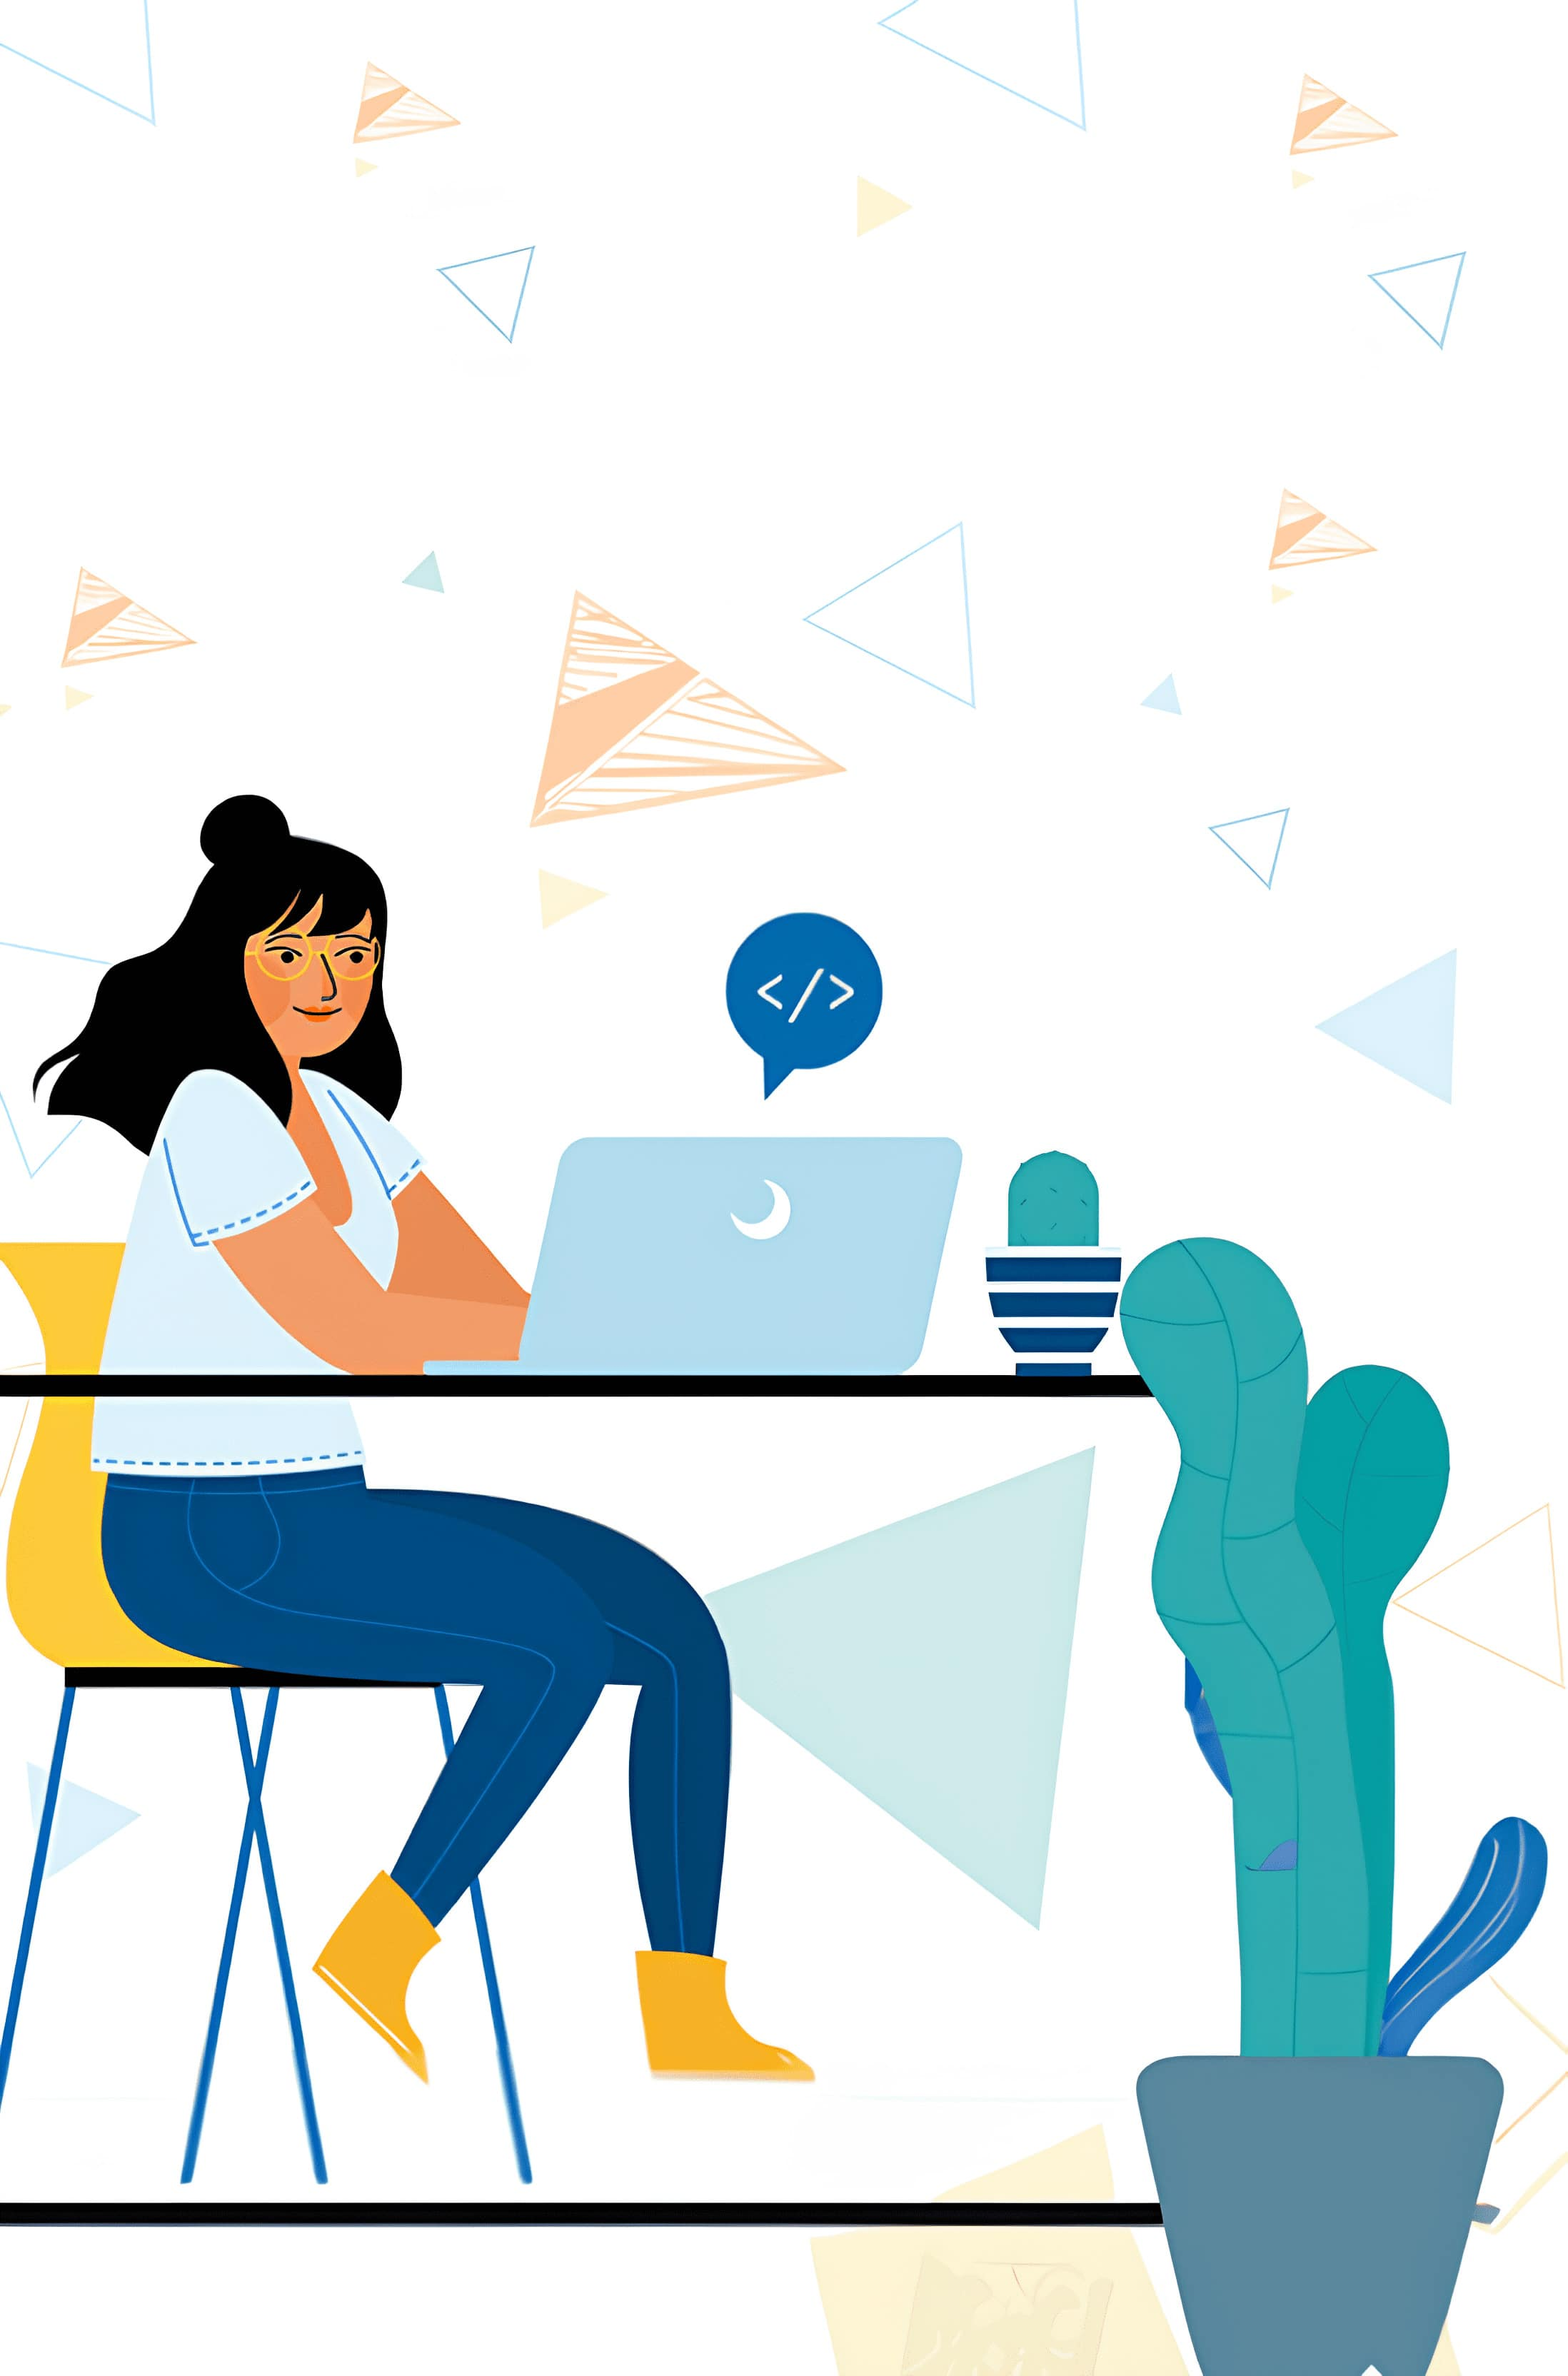
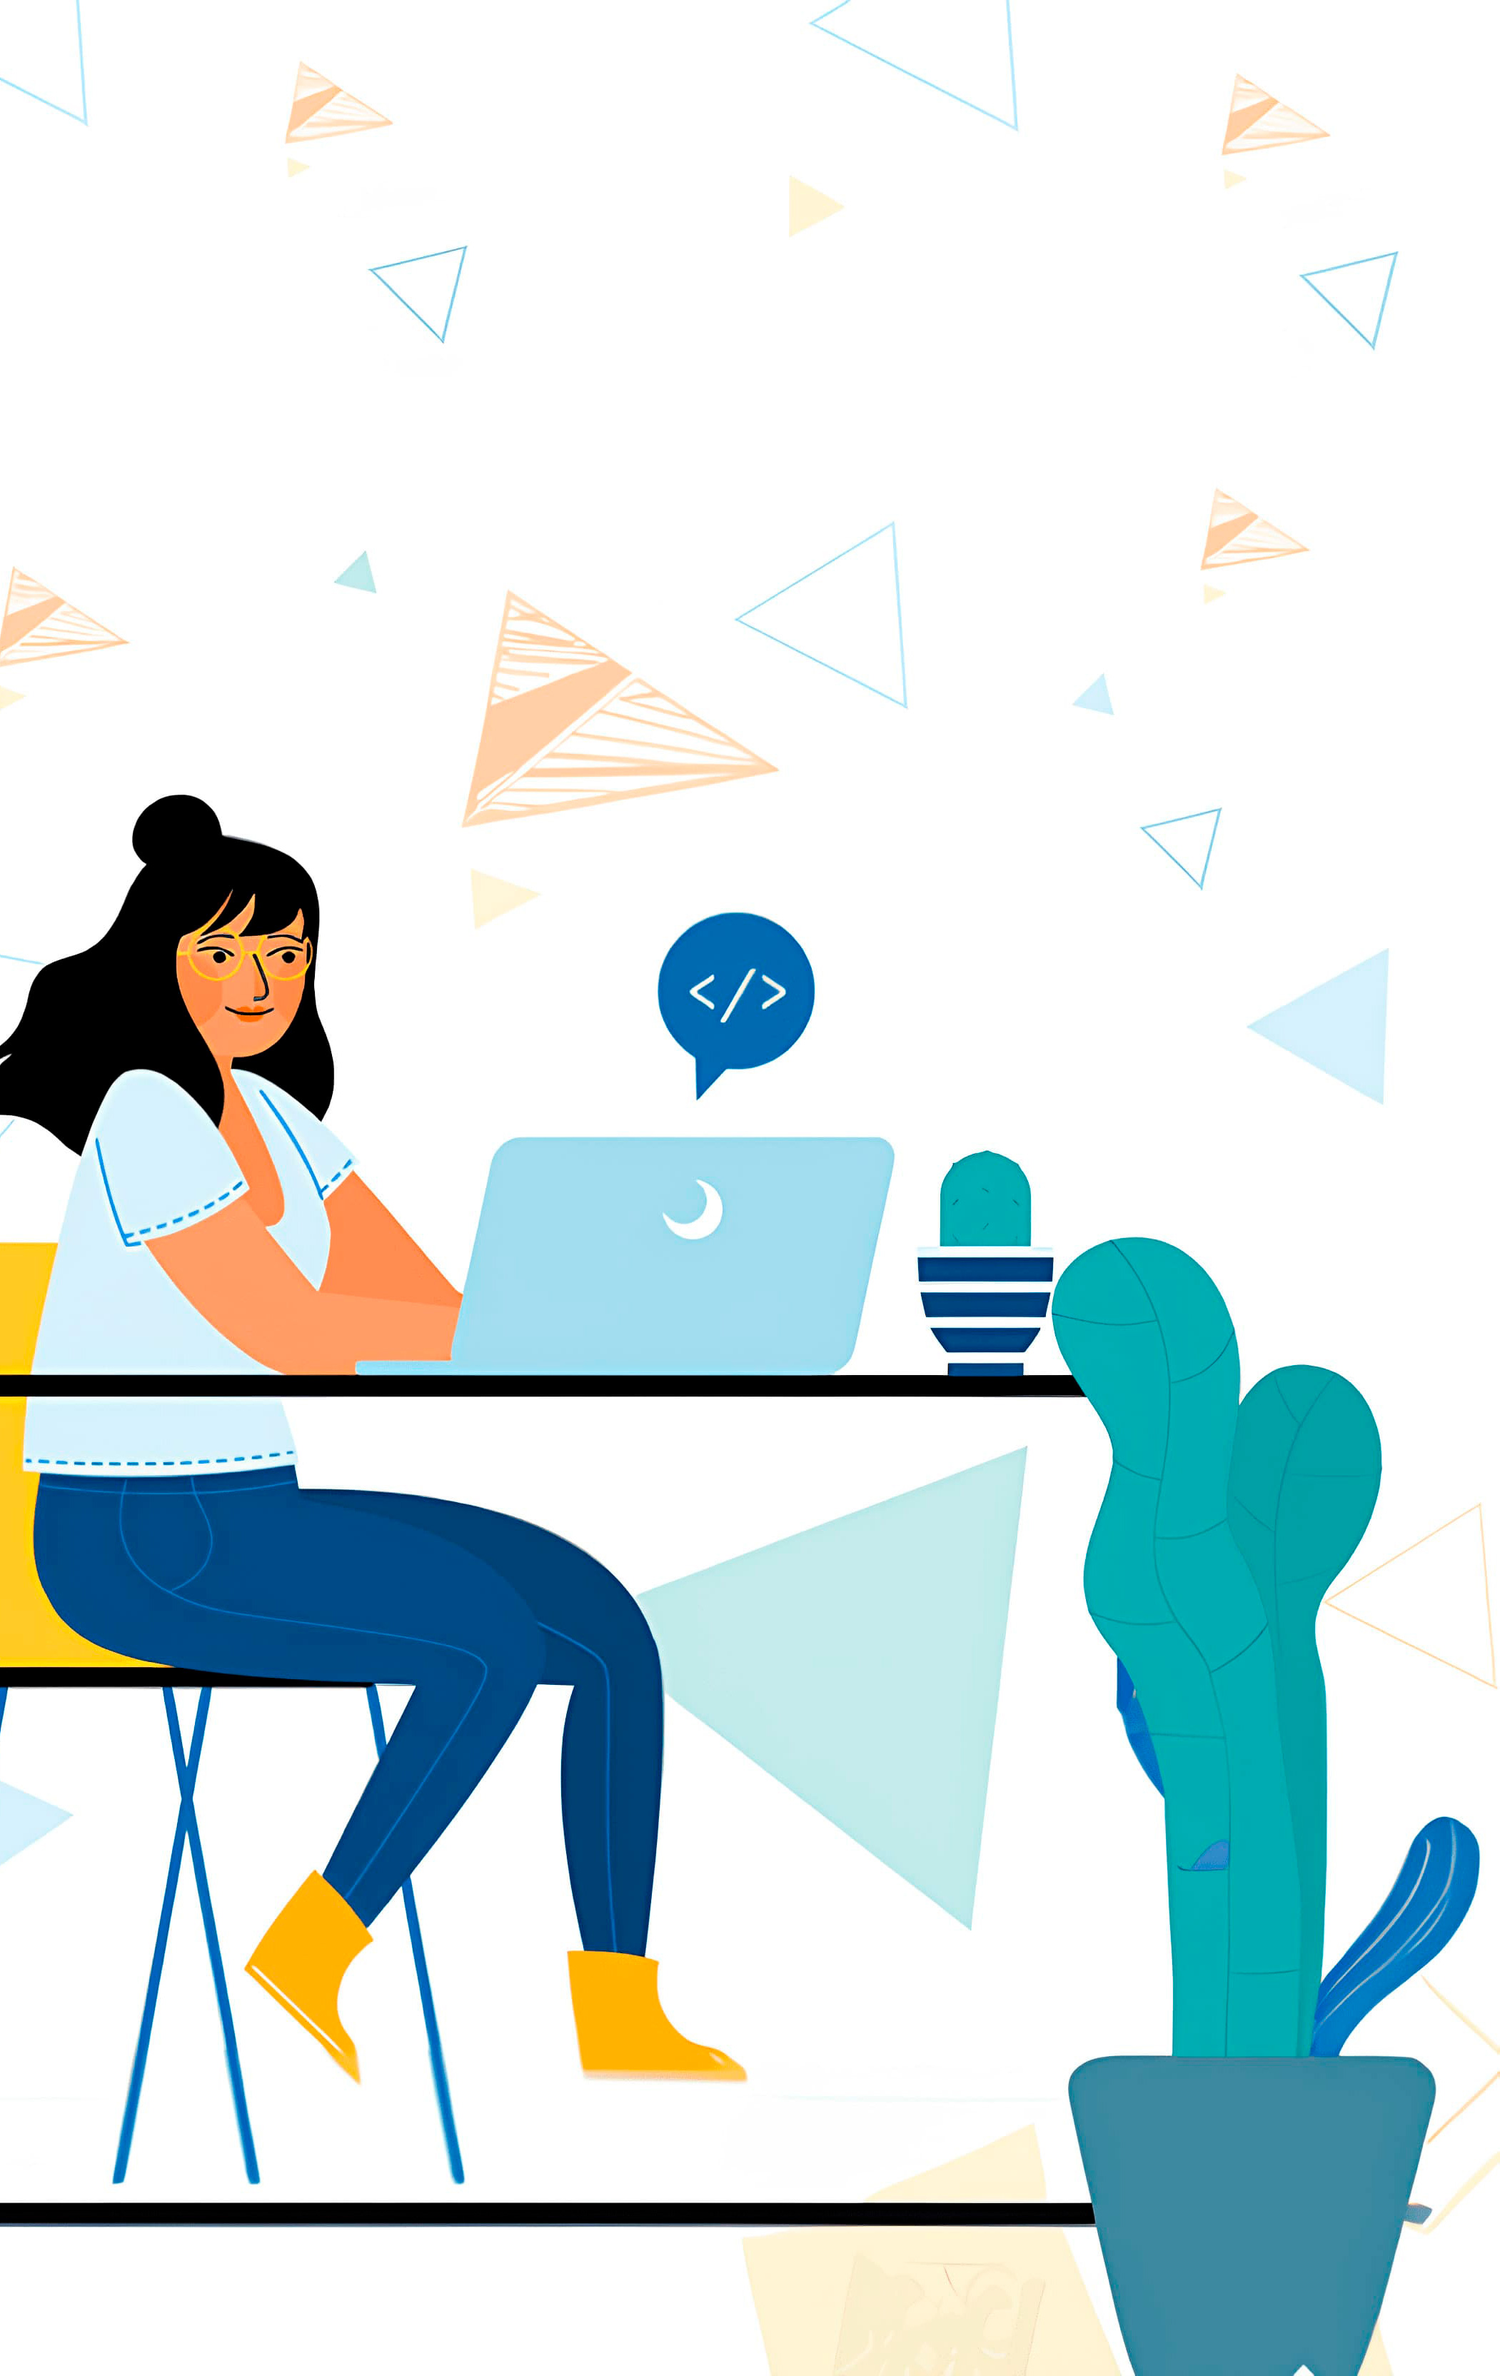
Changing the size of the signup screen image and modifying the animation v2

diff --git a/src/pages/SignIn/styles.ts b/src/pages/SignIn/styles.ts
@@ -1,5 +1,5 @@
-import styled from 'styled-components'
 import { Button } from '@mui/material'
+import styled from 'styled-components'
 
 export const SignInContainer = styled.div`
   margin: 6.81rem auto 0;
@@ -23,6 +23,17 @@ export const SignInContainer = styled.div`
       display: block;
       max-height: 100vh;
     }
+
+    animation: opacidade 0.8s cubic-bezier(0.25, 0.46, 0.45, 0.94) both;
+
+    @keyframes opacidade {
+      0% {
+        opacity: 0;
+      }
+      100% {
+        opacity: 1;
+      }
+    }
   }
 `
 
@@ -39,17 +50,6 @@ export const SignInContent = styled.main`
 
     h2 {
       display: none;
-    }
-  }
-
-  animation: opacidade 0.8s cubic-bezier(0.25, 0.46, 0.45, 0.94) both;
-
-  @keyframes opacidade {
-    0% {
-      opacity: 0;
-    }
-    100% {
-      opacity: 1;
     }
   }
 `
@@ -136,6 +136,7 @@ export const TextContainer = styled.p`
 
   @media (min-width: 978px) {
     font-size: 1.5rem;
+    margin-top: 13px;
   }
 `
 

diff --git a/src/pages/SignUp/styles.ts b/src/pages/SignUp/styles.ts
@@ -22,6 +22,16 @@ export const SignUpContainer = styled.div`
       display: block;
       max-height: 100vh;
     }
+    animation: opacidade 0.8s cubic-bezier(0.25, 0.46, 0.45, 0.94) both;
+
+    @keyframes opacidade {
+      0% {
+        opacity: 0;
+      }
+      100% {
+        opacity: 1;
+      }
+    }
   }
 `
 
@@ -35,17 +45,6 @@ export const SignUpContent = styled.main`
     max-width: 800px;
     margin: 0 auto;
     padding: 0 4rem 0;
-  }
-
-  animation: opacidade 0.8s cubic-bezier(0.25, 0.46, 0.45, 0.94) both;
-
-  @keyframes opacidade {
-    0% {
-      opacity: 0;
-    }
-    100% {
-      opacity: 1;
-    }
   }
 
   h2 {
